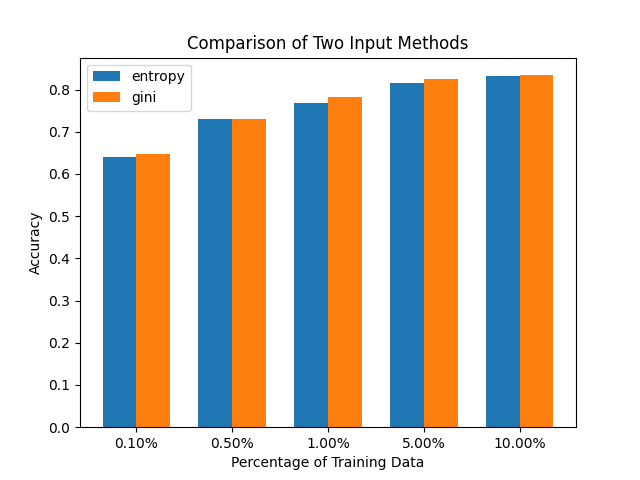
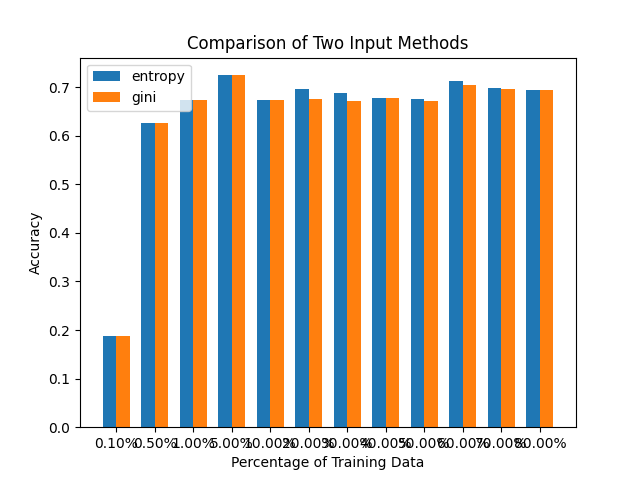
forest -> tree

diff --git a/decision_tree.py b/decision_tree.py
@@ -6,60 +6,27 @@ import copy
 from sympy import total_degree
 
 
-class RandomForest():
+class DecisionTree():
     """
-    Random Forest classifier.
+    Decision Tree classifier.
 
     Parameters:
     - train_data (tuple): Tuple containing the training data, where the first element is a dictionary with attribute indices and values, and the second element is a list of class labels.
-    - number_of_trees (int): Number of decision trees to include in the random forest.
     - max_depth (int): Maximum depth of each decision tree.
-    - percent_of_drawn_attrs (float, optional): Percentage of attributes to be randomly drawn for each tree. Defaults to 60.
-    - n_attrs (int, optional): Number of attributes to be randomly drawn for each tree. Overrides percent_of_drawn_attrs if provided.
 
     Methods:
-    - calculate_acc(test_data): Calculates the accuracy of the random forest on the given test data.
+    - calculate_acc(test_data): Calculates the accuracy of the Decision Tree on the given test data.
     - calculate_confusion_matrix(test_data, checked_class): Calculates the confusion matrix for a specific class on the given test data.
     - calculate_metrics_of_confusion_matrix(confusion_matrix): Calculates various metrics (True Positive Rate, False Positive Rate, Precision, Accuracy, F1 Score) based on the given confusion matrix.
-    - predict_random_forest(input_data): Predicts the class label for the given input data using the random forest.
+    - predict_random_forest(input_data): Predicts the class label for the given input data using the Decision Tree.
     """
-    trees = []
+    tree = None
     train_data = None
 
-    def __init__(self, train_data, number_of_trees, max_depth, percent_of_drawn_attrs=60, n_attrs=None, method="entropy"):
+    def __init__(self, train_data, max_depth, method="entropy"):
         self.train_data = copy.deepcopy(train_data)
-        for _ in range(number_of_trees):
-            new_train_data = self.get_drawn_attrs_and_rows(percent_of_drawn_attrs, n_attrs=n_attrs)
-            tree = self.genenerate_tree(new_train_data, max_depth, method)
-            self.trees.append(tree)
-
-    def get_drawn_attrs_and_rows(self, percent_of_data, n_attrs=None):
-        """
-        Randomly selects a subset of attributes and rows from the training data.
-
-        Args:
-            percent_of_data (float): The percentage of data to be included in the subset.
-            n_attrs (int, optional): The number of attributes to be included in the subset. If not specified,
-                                     the square root of the total number of attributes will be used.
-
-        Returns:
-            tuple: A tuple containing a dictionary with the selected attribute indices and values,
-                   and a list with the corresponding class labels.
-        """
-        number_of_attrs = int(math.sqrt(len(self.train_data[0]["attrs_index"])))
-        if n_attrs:
-            number_of_attrs = n_attrs
-        size_of_new_train_data = int(len(self.train_data[0]["attrs_vals"]) * (percent_of_data/100))
-        new_train_data = ({"attrs_index": [], "attrs_vals": []}, [])
-        while len(new_train_data[0]["attrs_index"]) < number_of_attrs:
-            index = random.randrange(len(self.train_data[0]["attrs_index"]))
-            if index not in new_train_data[0]["attrs_index"]:
-                new_train_data[0]["attrs_index"].append(index)
-        while len(new_train_data[0]["attrs_vals"]) < size_of_new_train_data:
-            index = random.randrange(len(self.train_data[0]["attrs_vals"]))
-            new_train_data[0]["attrs_vals"].append(self.train_data[0]["attrs_vals"][index])
-            new_train_data[1].append(self.train_data[1][index])
-        return new_train_data
+        tree = self.genenerate_tree(train_data, max_depth, method)
+        self.tree = tree
 
     def calculate_entropy(self, class_vals, uniq_class_vals):
         """
@@ -101,19 +68,19 @@ class RandomForest():
 
     def calculate_acc(self, test_data):
         """
-        Calculate the accuracy of the random forest model on the given test data.
+        Calculate the accuracy of the Decision Tree model on the given test data.
 
         Parameters:
         - test_data (tuple): A tuple containing the test data, where the first element is a dictionary with the attribute values
                              and the second element is a list of corresponding labels.
 
         Returns:
-        - float: The accuracy of the random forest model on the test data, expressed as a value between 0 and 1.
+        - float: The accuracy of the Decision Tree model on the test data, expressed as a value between 0 and 1.
         """
         correct_predictions = 0
         wrong_predictions = 0
         for i, row in enumerate(test_data[0]["attrs_vals"]):
-            decision = self.predict_random_forest(row)
+            decision = self.predict_decision_tree(row)
             if decision == test_data[1][i]:
                 correct_predictions += 1
             else:
@@ -308,32 +275,17 @@ class RandomForest():
             return node.decision
         return None
 
-    def predict_random_forest(self, input_data):
+    def predict_decision_tree(self, input_data):
         """
-        Predicts the output for the given input data using the random forest model.
+        Predicts the output for the given input data using the Decision Tree model.
 
         Parameters:
         - input_data: The input data for which the output is to be predicted.
 
         Returns:
-        - The predicted output based on the random forest model.
+        - The predicted output based on the Decision Tree model.
         """
-        decisions = {}
-        for tree in self.trees:
-            decision = self.predict_tree_decision(tree, input_data)
-            if decisions is None:
-                continue
-            if decision not in decisions:
-                decisions[decision] = 1
-            else:
-                decisions[decision] += 1
-        the_best_decision = None
-        number_of_occurance = 0
-        for i in decisions:
-            if decisions[i] >= number_of_occurance:
-                the_best_decision = i
-                number_of_occurance = decisions[i]
-        return the_best_decision
+        return self.predict_tree_decision(self.tree, input_data)
 
 
 class Node:

diff --git a/dataset_utils.py b/dataset_utils.py
@@ -28,7 +28,7 @@ def replace_missing_with_mode(data, mode_values):
         new_data.append(new_row)
     return new_data
 
-def mask_random_attributes(attrs_vals, masking_rate=0.1):
+def mask_random_attributes(attrs_vals, masking_rate):
     """
     Randomly masks individual attribute values within the dataset.
     """
@@ -43,13 +43,14 @@ def split_random_to_train_and_test_data(attrs_vals, class_vals, percent_of_train
     Splits the given dataset into training and testing data randomly after applying random attribute masking.
     """
     attrs_vals = mask_random_attributes(attrs_vals, masking_rate)
-    attrs_vals = preprocess_data(attrs_vals)
+    
     #mode_values = calculate_mode(attrs_vals)
     #attrs_vals = replace_missing_with_mode(attrs_vals, mode_values)
 
     combined_data = list(zip(attrs_vals, class_vals))
     random.shuffle(combined_data)
-
+    #distributions = calculate_attribute_distribution([x for x,_ in combined_data])
+    #attrs_vals = replace_missing_with_distribution([x for x,_ in combined_data], distributions)
     split_index = int(len(combined_data) * (percent_of_train_data / 100))
     train_data = combined_data[:split_index]
     test_data = combined_data[split_index:]
@@ -84,21 +85,35 @@ def calculate_attribute_distribution(data, index):
     distribution = {val: count / total for val, count in value_counts.items()}
     return distribution
 
-def generate_fractional_instances(data, distributions):
-    """ Generuje ułamkowe instancje dla danych z brakującymi wartościami. """
+def calculate_attribute_distribution(data):
+    """
+    Calculates the distribution of values for each attribute in the dataset,
+    ignoring 'missing' entries.
+    """
+    columns = list(zip(*data))
+    distributions = []
+    for column in columns:
+        total = len([x for x in column if x != 'missing'])
+        count = Counter(x for x in column if x != 'missing')
+        distribution = {k: v / total for k, v in count.items()}
+        distributions.append(distribution)
+    return distributions
+
+def replace_missing_with_distribution(data, distributions):
+    """
+    Replace 'missing' entries in the dataset based on the distribution of
+    the corresponding attribute column.
+    """
     new_data = []
     for row in data:
-        fractional_rows = row.copy()
+        new_row = []
         for i, value in enumerate(row):
             if value == 'missing':
-                val = distributions[i].items()
-                value = val
-        new_data.extend(fractional_rows)
+                if distributions[i]:  # Check if there is a distribution to sample from
+                    new_row.append(random.choices(list(distributions[i].keys()), weights=distributions[i].values())[0])
+                else:
+                    new_row.append('missing')  # In case there are no known values to base the distribution on
+            else:
+                new_row.append(value)
+        new_data.append(new_row)
     return new_data
-
-
-def preprocess_data(attrs_vals):
-    """ Przygotowuje dane, obliczając rozkłady atrybutów i generując ułamkowe instancje. """
-    distributions = [calculate_attribute_distribution((attrs_vals), i) for i in range(len(attrs_vals[0]))]
-    attrs_vals = generate_fractional_instances(attrs_vals, distributions)
-    return attrs_vals

diff --git a/main.py b/main.py
@@ -1,11 +1,11 @@
 from dataset_utils import get_data, split_random_to_train_and_test_data
-from random_forest import RandomForest
+from decision_tree import DecisionTree
 from visualization_utils import visualize_acc, visualize_metrics_of_confusion_matrix, visualize_class_counter, visualize_tree, visulate_acc_per_input_method
-from utils import ATTRS_NAMES, CLASS_VALUES, N_ATTRS, PERCENT_OF_DRAWN_ROWS, N_TREES, MAX_DEPTH, PERCENT_OF_TRAIN_DATA, ATTR_TO_INDEX
+from utils import ATTRS_NAMES, CLASS_VALUES, MAX_DEPTH, PERCENT_OF_TRAIN_DATA, ATTR_TO_INDEX
 import numpy as np
 import random
 
-row_attrs, class_vals = get_data("nursery.data")
+row_attrs, class_vals = get_data("car.data")
 """
 uniq_attr_vals = np.unique([i[ATTR_TO_INDEX.get("persons")] for i in row_attrs])
 class_val_counter_by_attr = {
@@ -85,9 +85,9 @@ for class_val in CLASS_VALUES:
 visualize_metrics_of_confusion_matrix(list_of_metrics, CLASS_VALUES)
 """
 ######
-# compare acc of sorted and shuffled data
+# compare acc of diff entropy calc
 ######
-
+"""
 list_of_percent_train_data = [0.1, 0.5, 1, 5, 10]
 labels_for_percent_of_train_data = []
 list_of_acc = []
@@ -105,4 +105,21 @@ for i in list_of_percent_train_data:
     print(acc)
 
 visulate_acc_per_input_method(list_of_acc, labels_for_percent_of_train_data)
-
+"""
+list_of_percent_train_data = [0.1, 0.5, 1, 5, 10, 20, 30, 40, 50, 60, 70, 80]
+labels_for_percent_of_train_data = []
+list_of_acc = []
+for i in list_of_percent_train_data:
+    print(i)
+    train_data, test_data = split_random_to_train_and_test_data(row_attrs, class_vals, i)
+    decision_tree = DecisionTree(train_data, MAX_DEPTH, method='entropy')
+    acc = decision_tree.calculate_acc(test_data)
+    list_of_acc.append(acc)
+    print(acc)
+    decision_tree = DecisionTree(train_data, MAX_DEPTH, method='gini')
+    acc = decision_tree.calculate_acc(test_data)
+    list_of_acc.append(acc)
+    labels_for_percent_of_train_data.append('%.2f%%' % (i))
+    print(acc)
+visualize_tree(tree=decision_tree.tree, attrs_names=ATTRS_NAMES,output_name="tree.png")
+visulate_acc_per_input_method(list_of_acc, labels_for_percent_of_train_data)

diff --git a/visualization_utils.py b/visualization_utils.py
@@ -1,6 +1,6 @@
 from anytree import Node
 from anytree.exporter import UniqueDotExporter, DotExporter
-from random_forest import Leaf
+from decision_tree import Leaf
 import matplotlib.pyplot as plt
 import numpy as np
 
@@ -17,6 +17,7 @@ def visualize_tree(tree, attrs_names, output_name):
     Returns:
         None
     """
+    print(attrs_names[tree.attr_index])
     main_node = Node(attrs_names[tree.attr_index], node_type="node")
 
     def create_children(tree, parrent_node):
@@ -49,8 +50,6 @@ def visualize_tree(tree, attrs_names, output_name):
         else:
             return "shape=diamond"
     print(main_node.height)
-    #dot_filename = output_name.replace('.png', '.dot')
-    #UniqueDotExporter(main_node, edgeattrfunc=edgeattrfunc).to_dotfile(dot_filename)
 
     UniqueDotExporter(main_node, edgeattrfunc=edgeattrfunc).to_picture(output_name)
 

diff --git a/utils.py b/utils.py
@@ -2,13 +2,10 @@ import random
 
 random.seed(42137)
 
-ATTRS_NAMES = ["parents", "has_nurs", "form", "children", "housing", "finance", "social", "health"]
-CLASS_VALUES = ["not_recom", "recommend", "very_recom", "priority", "spec_prior"]
-#ATTRS_NAMES=["buying", "maint", "doors", "persons", "lug_boot", "safety"]
-#CLASS_VALUES = ["unacc", "acc", "good", "vgood"]
-N_ATTRS = 6
-PERCENT_OF_DRAWN_ROWS = 100
-N_TREES = 40
-MAX_DEPTH = 0
+#ATTRS_NAMES = ["parents", "has_nurs", "form", "children", "housing", "finance", "social", "health"]
+#CLASS_VALUES = ["not_recom", "recommend", "very_recom", "priority", "spec_prior"]
+ATTRS_NAMES=["buying", "maint", "doors", "persons", "lug_boot", "safety"]
+CLASS_VALUES = ["unacc", "acc", "good", "vgood"]
+MAX_DEPTH = 4
 PERCENT_OF_TRAIN_DATA = 5
 ATTR_TO_INDEX = {ATTRS_NAMES[i]: i for i in range(len(ATTRS_NAMES))}
